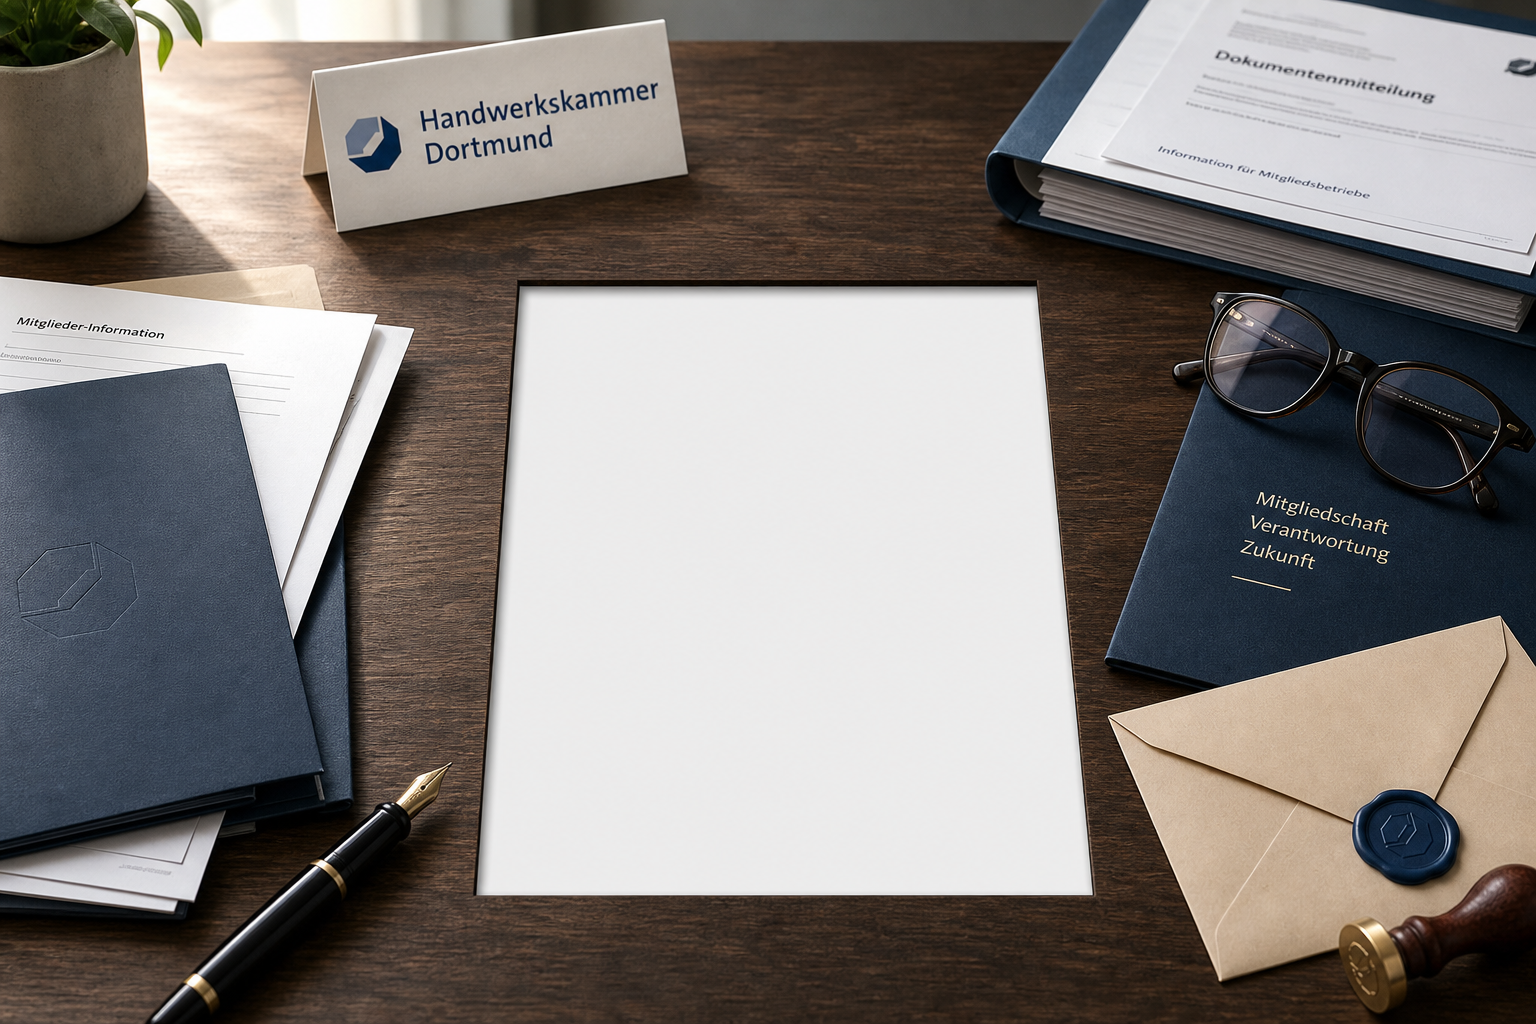
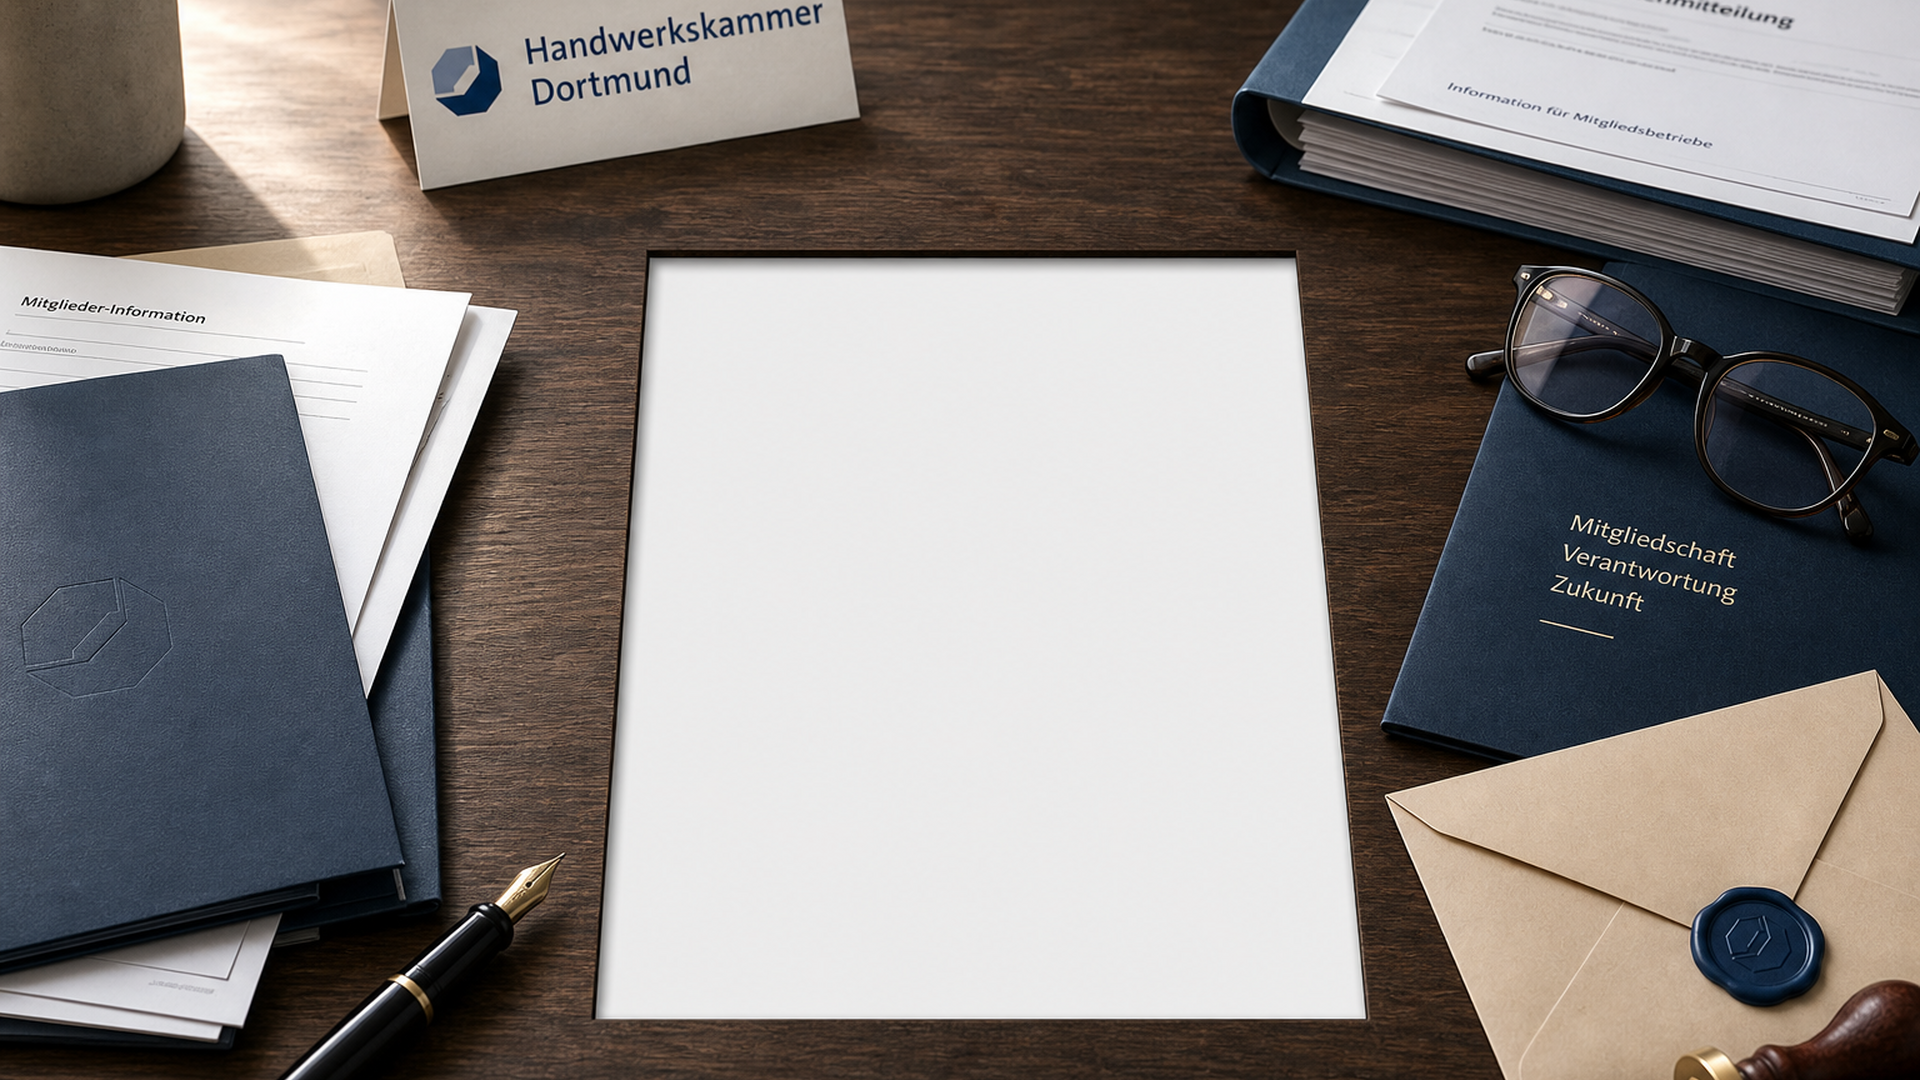
News-Rahmen auf 16:9 bringen, passend zu den Titelbildern.

diff --git a/src/Services/DocumentNewsCoverComposer.php b/src/Services/DocumentNewsCoverComposer.php
@@ -32,12 +32,12 @@ class DocumentNewsCoverComposer
         $settings = IntranetAppDokumenteSettings::resolvedAppSettings();
 
         return [
-            'width' => (int) ($config['width'] ?? 1536),
-            'height' => (int) ($config['height'] ?? 1024),
-            'slot_x' => $settings->newsFrameSlotX ?? (int) ($config['slot_x'] ?? 513),
-            'slot_y' => $settings->newsFrameSlotY ?? (int) ($config['slot_y'] ?? 295),
-            'slot_width' => $settings->newsFrameSlotWidth ?? (int) ($config['slot_width'] ?? 540),
-            'slot_height' => $settings->newsFrameSlotHeight ?? (int) ($config['slot_height'] ?? 600),
+            'width' => (int) config('news.title_dimensions.width', $config['width'] ?? 1920),
+            'height' => (int) config('news.title_dimensions.height', $config['height'] ?? 1080),
+            'slot_x' => $settings->newsFrameSlotX ?? (int) ($config['slot_x'] ?? 641),
+            'slot_y' => $settings->newsFrameSlotY ?? (int) ($config['slot_y'] ?? 269),
+            'slot_width' => $settings->newsFrameSlotWidth ?? (int) ($config['slot_width'] ?? 675),
+            'slot_height' => $settings->newsFrameSlotHeight ?? (int) ($config['slot_height'] ?? 750),
             'thumb_max_width' => (int) ($config['thumb_max_width'] ?? 320),
             'thumb_max_height' => (int) ($config['thumb_max_height'] ?? 420),
             'default_filename' => (string) ($config['default_filename'] ?? 'news-frame-default.png'),
@@ -127,18 +127,31 @@ class DocumentNewsCoverComposer
     public function ensureDefaultSeeded(): void
     {
         $record = DocumentNewsFrame::current();
-        if ($record->hasCustomFrame()) {
-            return;
-        }
-
         $default = $this->defaultFramePath();
         if (! is_file($default)) {
             return;
         }
 
+        $spec = $this->frameSpec();
+        $media = $record->getFirstMedia('frame');
+
+        if ($media !== null && $media->file_name !== $spec['default_filename']) {
+            return;
+        }
+
+        if ($media !== null) {
+            $path = $media->getPath();
+            $size = is_string($path) && is_file($path) ? @getimagesize($path) : false;
+
+            if ($size !== false && (int) $size[0] === $spec['width'] && (int) $size[1] === $spec['height']) {
+                return;
+            }
+        }
+
+        $record->clearMediaCollection('frame');
         $record->addMedia($default)
             ->preservingOriginal()
-            ->usingFileName($this->frameSpec()['default_filename'])
+            ->usingFileName($spec['default_filename'])
             ->toMediaCollection('frame');
     }
 }

diff --git a/src/Livewire/Apps/Dokumente/Admin/NewsRahmen.php b/src/Livewire/Apps/Dokumente/Admin/NewsRahmen.php
@@ -19,13 +19,13 @@ class NewsRahmen extends Component
 
     public $frameUpload = null;
 
-    public int $slotX = 513;
+    public int $slotX = 641;
 
-    public int $slotY = 295;
+    public int $slotY = 269;
 
-    public int $slotWidth = 540;
+    public int $slotWidth = 675;
 
-    public int $slotHeight = 600;
+    public int $slotHeight = 750;
 
     public function mount(DocumentNewsCoverComposer $composer): void
     {
@@ -89,10 +89,10 @@ class NewsRahmen extends Component
         }
 
         $config = config('intranet-app-dokumente.news_frame', []);
-        $this->slotX = (int) ($config['slot_x'] ?? 513);
-        $this->slotY = (int) ($config['slot_y'] ?? 295);
-        $this->slotWidth = (int) ($config['slot_width'] ?? 540);
-        $this->slotHeight = (int) ($config['slot_height'] ?? 600);
+        $this->slotX = (int) ($config['slot_x'] ?? 641);
+        $this->slotY = (int) ($config['slot_y'] ?? 269);
+        $this->slotWidth = (int) ($config['slot_width'] ?? 675);
+        $this->slotHeight = (int) ($config['slot_height'] ?? 750);
 
         $current = IntranetAppDokumenteSettings::resolvedAppSettings();
         IntranetAppDokumenteSettings::persistAppSettings(AppSettings::from(array_merge($current->toArray(), [

diff --git a/config/intranet-app-dokumente.php b/config/intranet-app-dokumente.php
@@ -25,16 +25,17 @@ return [
     |--------------------------------------------------------------------------
     | News-Rahmenbild (Dokument-Thumb wird in die Lücke gesetzt)
     |--------------------------------------------------------------------------
-    | Maße beziehen sich auf die Default-Vorlage (news-frame-default.png).
+    | Maße beziehen sich auf die Default-Vorlage (news-frame-default.png)
+    | im Format der News-Titelbilder (16:9, siehe config/news.php).
     | Bei abweichender Upload-Größe werden Slot-Koordinaten proportional skaliert.
     */
     'news_frame' => [
-        'width' => 1536,
-        'height' => 1024,
-        'slot_x' => 513,
-        'slot_y' => 295,
-        'slot_width' => 540,
-        'slot_height' => 600,
+        'width' => 1920,
+        'height' => 1080,
+        'slot_x' => 641,
+        'slot_y' => 269,
+        'slot_width' => 675,
+        'slot_height' => 750,
         // Nur Hinweis für die UI / Dokumentation (Medien-Conversion). Beim Compose füllt das Thumb die Slot-Größe.
         'thumb_max_width' => 320,
         'thumb_max_height' => 420,
